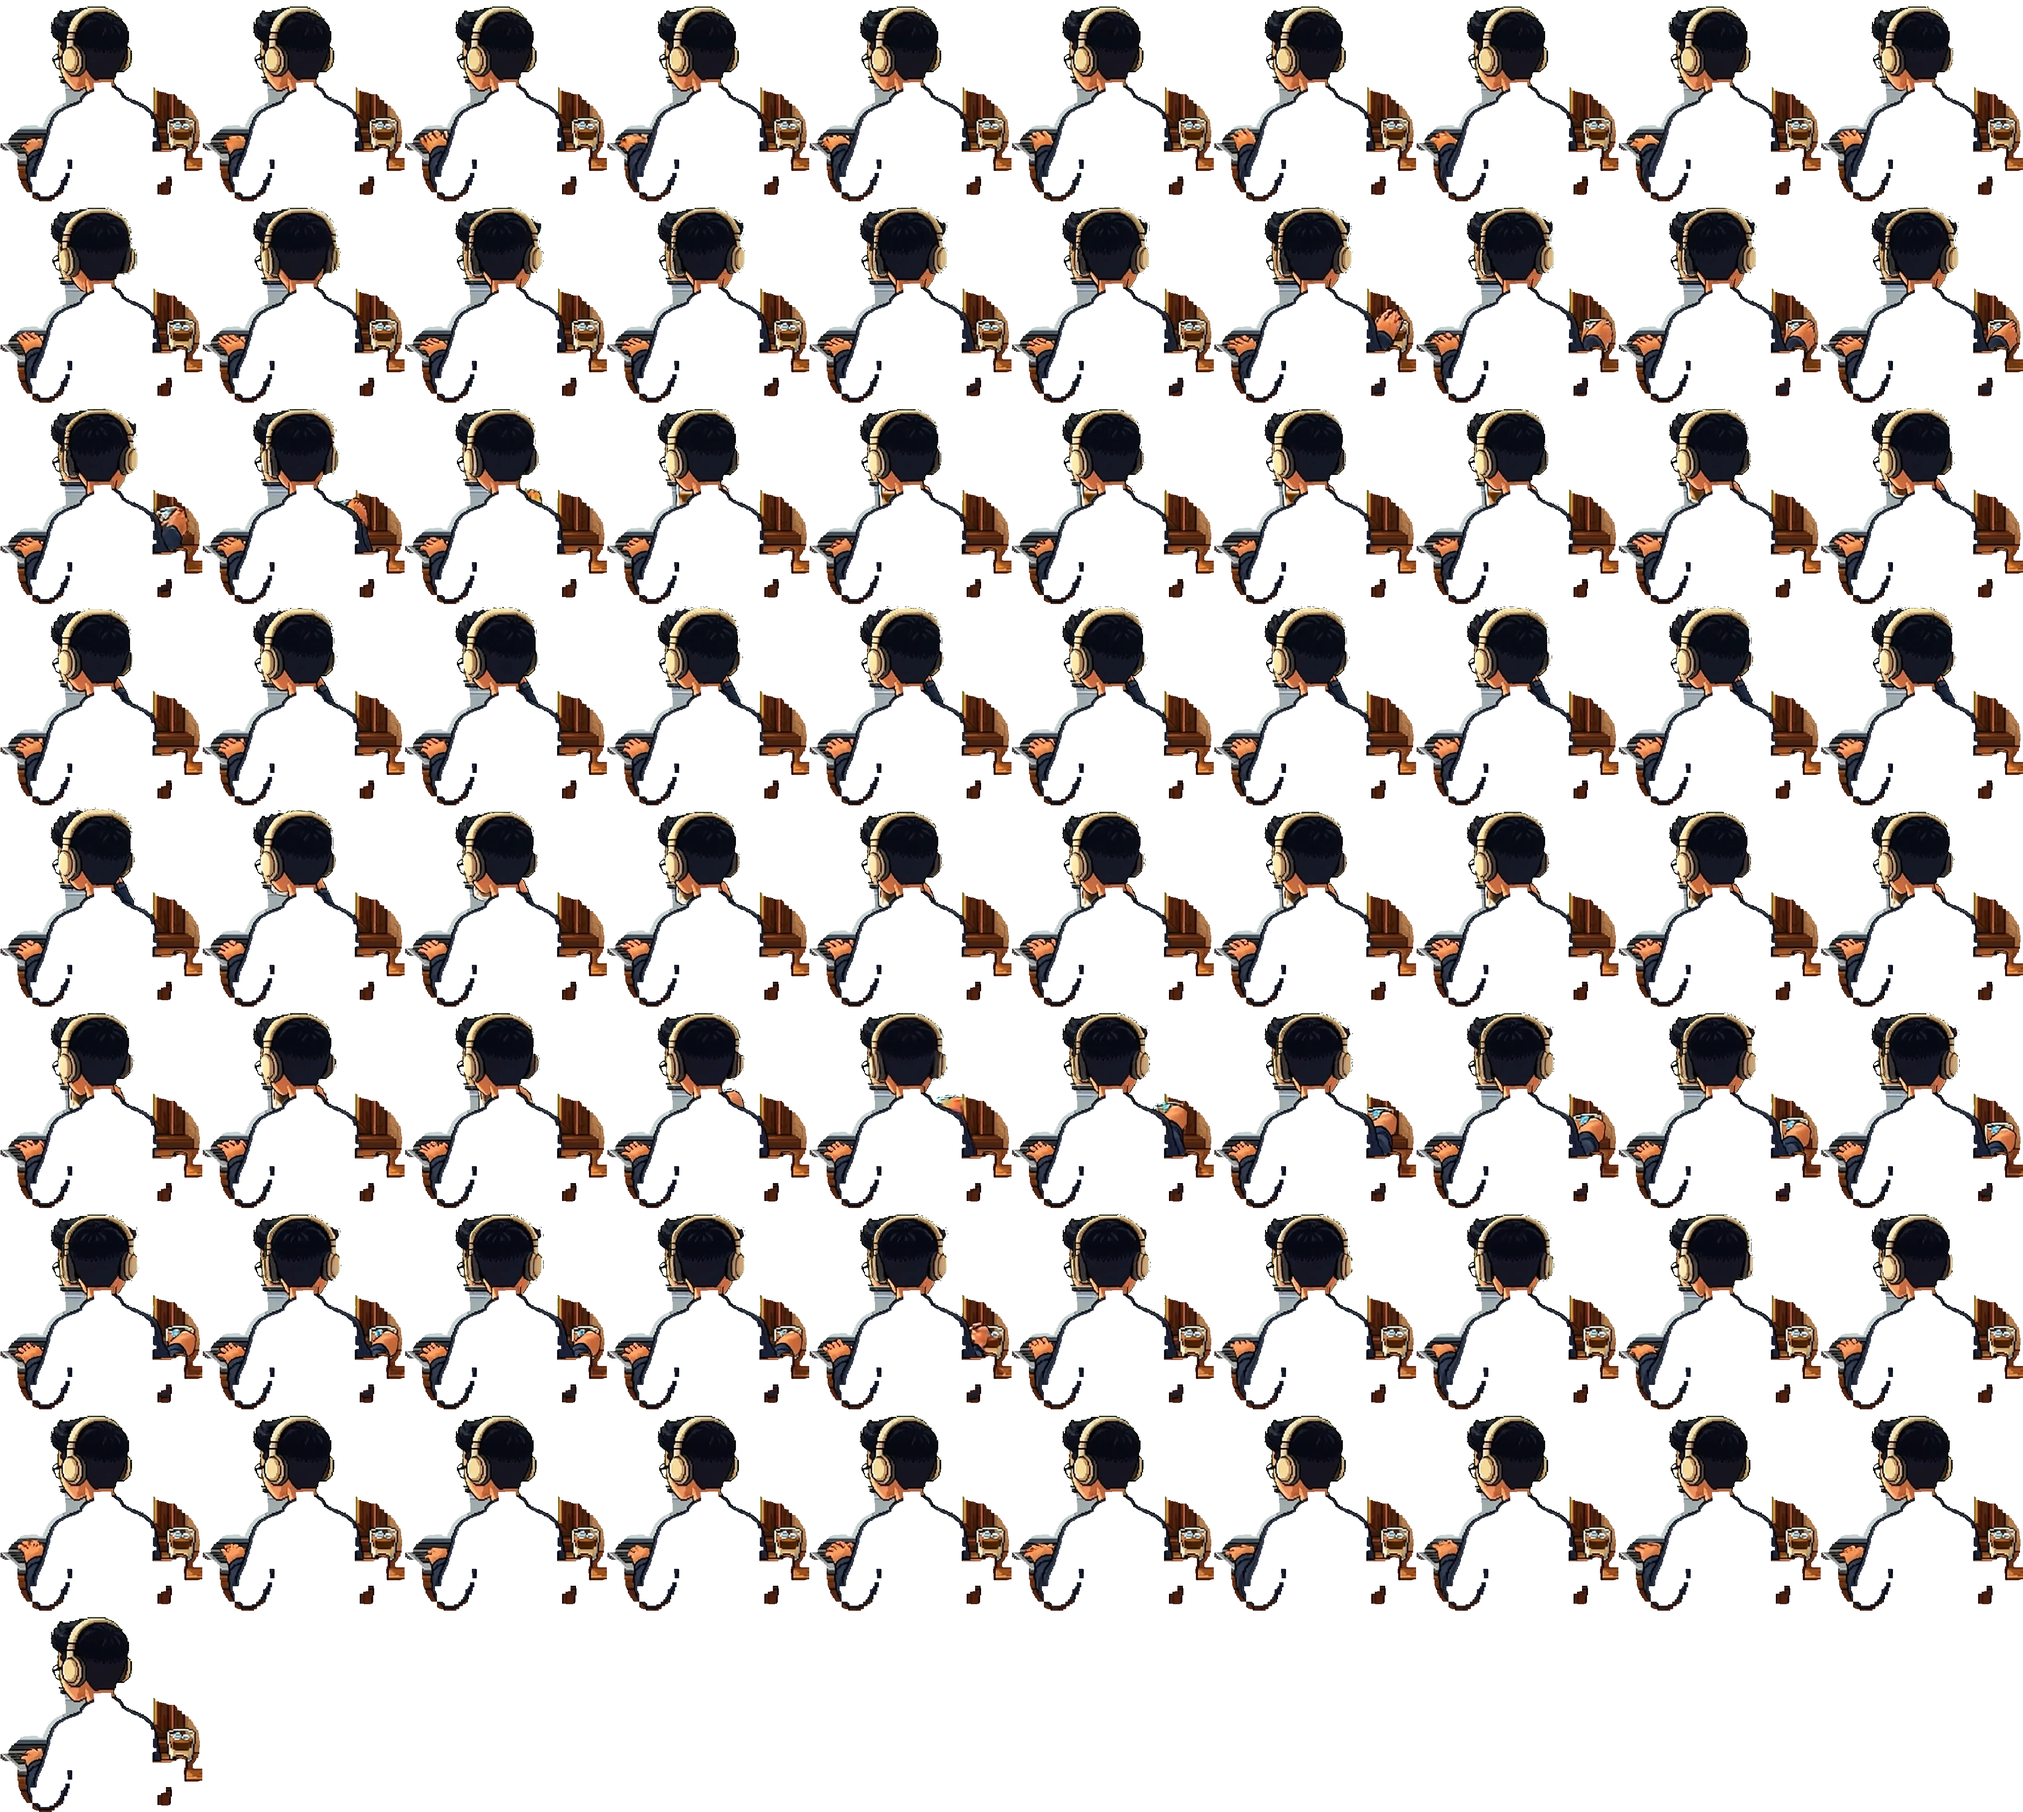
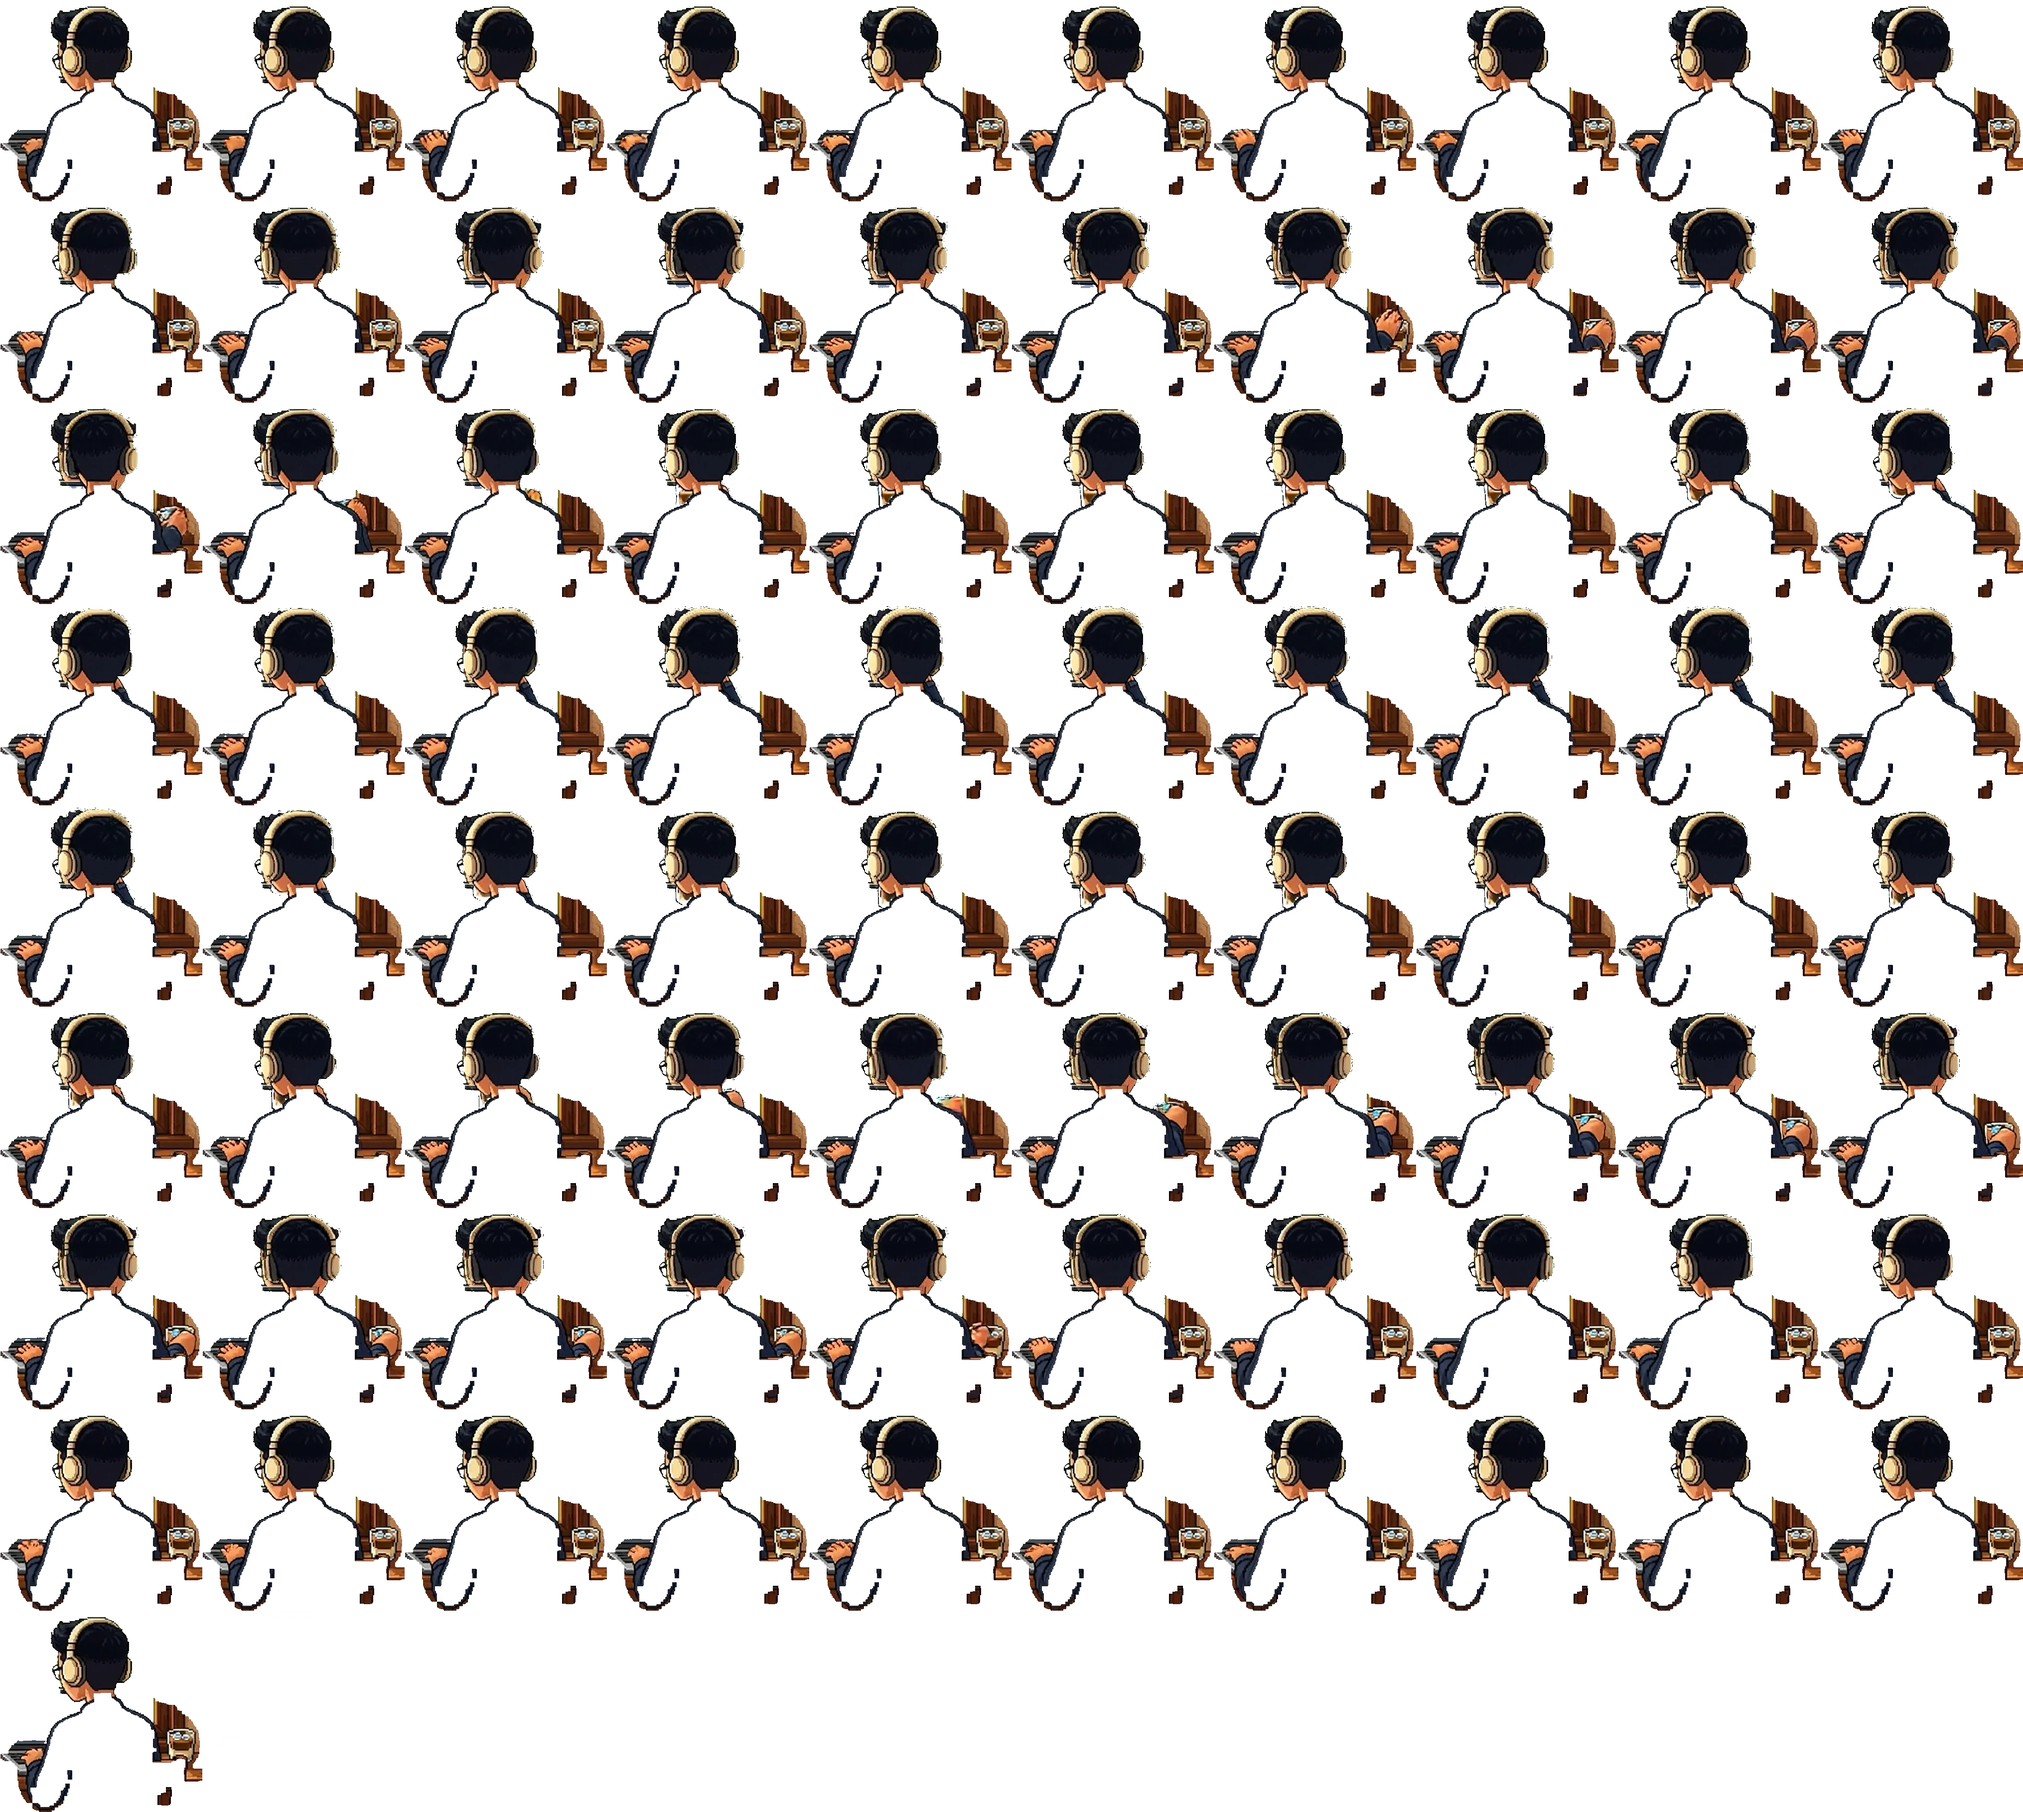
fixed: /chill laptops — café window bezel no longer breaks into steps, night desk screen is sharp and lines up
Café: the left bezel in the sitting video was cut into three steps; straightened in every
frame of both sheets and stray specks cleared from the screen hole. The design app on the
screen now draws on the 2× grid like the art around it.

Night desk: the laptop was stitched from the still and the video, so a grey strip and a
doubled shoulder line showed through. Its screen is now the same live design app as the
café, drawn under the still so the painted shoulder covers it.

diff --git a/src/components/chill/screen.ts b/src/components/chill/screen.ts
@@ -2,11 +2,10 @@
 // con trỏ kéo khung, gõ chữ, đổi màu nút, kéo nút sang chỗ khác… xong 1 màn
 // thì "xuất" rồi bắt đầu màn mới.
 //
-// Vẽ theo px thật trên canvas đệm 640×360 (ctx không scale), nằm dưới lớp người
-// ngồi — vùng màn hình trong sheet đã khoét trong suốt, đầu/vai vẫn che phía trước.
-// Phần bên phải bị đầu che nên bố cục dồn sang trái.
-
-export const SCREEN = {x: 436, y: 219, w: 88, h: 49}
+// Bố cục theo px gốc 640×360 nhưng nét vẽ theo lưới 0,5px (= 1px canvas đệm 1280×720),
+// cho khớp độ chi tiết ×2 của tranh xung quanh. Nằm dưới lớp người ngồi — vùng màn hình
+// trong sheet đã khoét trong suốt, đầu/vai vẫn che phía trước. Phần bên phải hay bị
+// đầu che nên bố cục dồn sang trái. Khung màn hình theo từng phòng (themes.ts).
 
 type Rect = {x: number; y: number; w: number; h: number}
 type El = Rect & {color: string; kind: 'rect' | 'text' | 'round'}
@@ -65,16 +64,19 @@ const DESIGNS: {board: Rect; steps: Step[]}[] = [
 
 const SWATCHES = ['#5b6cff', '#e0567a', '#ff7a45', '#f2a65a', '#1f9d6b']
 // Khung canvas của app (trong màn hình): chừa panel trái 16px, thanh trên 4px
-const CANVAS = {x: 16, y: 4, w: 56, h: 45}
+const PANEL = 16
+const BAR = 4
 const STEP_TIME = 2.2
 const HOLD = 2.5
 
 const ease = (k: number) => (k < 0.5 ? 2 * k * k : 1 - (-2 * k + 2) ** 2 / 2)
 const clamp01 = (k: number) => Math.max(0, Math.min(1, k))
 const lerp = (a: number, b: number, k: number) => a + (b - a) * k
+// Bám lưới 0,5px gốc (1px canvas đệm)
+const snap = (v: number) => Math.round(v * 2) / 2
 
-export function drawScreen(ctx: CanvasRenderingContext2D, t: number, night: boolean) {
-  const S = SCREEN
+export function drawScreen(ctx: CanvasRenderingContext2D, S: Rect, t: number, night: boolean) {
+  const CANVAS = {x: PANEL, y: BAR, w: Math.min(56, S.w - PANEL), h: S.h - BAR}
   const cycle = DESIGNS.map((d) => d.steps.length * STEP_TIME + HOLD)
   const total = cycle.reduce((a, b) => a + b, 0)
   let local = t % total
@@ -101,7 +103,7 @@ export function drawScreen(ctx: CanvasRenderingContext2D, t: number, night: bool
       const p = abs(el)
       if (act > 0) {
         const grow = ease(act)
-        els.push({...el, w: Math.max(1, Math.round(el.w * grow)), h: step.op === 'draw' ? Math.max(1, Math.round(el.h * grow)) : el.h})
+        els.push({...el, w: Math.max(0.5, snap(el.w * grow)), h: step.op === 'draw' ? Math.max(0.5, snap(el.h * grow)) : el.h})
         active = els.length - 1
         if (step.op === 'type' && act < 1) typing = els[active]
       }
@@ -148,69 +150,74 @@ export function drawScreen(ctx: CanvasRenderingContext2D, t: number, night: bool
   ctx.fillStyle = '#3a3a42'
   ctx.fillRect(S.x + CANVAS.x, S.y + CANVAS.y, CANVAS.w, CANVAS.h)
   ctx.fillStyle = '#2a2a30'
-  ctx.fillRect(S.x, S.y, S.w, 4)
+  ctx.fillRect(S.x, S.y, S.w, BAR)
   for (const [i, c] of ['#ff5f57', '#febc2e', '#28c840'].entries()) {
     ctx.fillStyle = c
-    ctx.fillRect(S.x + 2 + i * 3, S.y + 1, 2, 2)
+    ctx.fillRect(S.x + 2 + i * 2.5, S.y + 1.5, 1.5, 1.5)
   }
   ctx.fillStyle = '#5a5a66'
-  ctx.fillRect(S.x + 30, S.y + 1, 22, 2)
+  ctx.fillRect(S.x + 30, S.y + 1.5, 22, 1)
 
   // Panel layers: mỗi phần tử 1 dòng, dòng đang chọn tô xanh
   ctx.fillStyle = '#6d6d78'
-  ctx.fillRect(S.x + 2, S.y + 6, 9, 1)
+  ctx.fillRect(S.x + 2, S.y + 6, 9, 0.5)
   els.forEach((el, i) => {
     const y = S.y + 9 + i * 4
     if (i === active) {
       ctx.fillStyle = '#2f4c8a'
-      ctx.fillRect(S.x, y - 1, CANVAS.x, 3)
+      ctx.fillRect(S.x, y - 1, CANVAS.x, 2.5)
     }
     ctx.fillStyle = el.color
-    ctx.fillRect(S.x + 2, y, 2, 1)
+    ctx.fillRect(S.x + 2, y, 1.5, 1)
     ctx.fillStyle = i === active ? '#dfe6ff' : '#8a8a96'
-    ctx.fillRect(S.x + 5, y, el.kind === 'text' ? 8 : 6, 1)
+    ctx.fillRect(S.x + 4.5, y + 0.25, el.kind === 'text' ? 8 : 6, 0.5)
   })
   // Ô màu dưới panel
   SWATCHES.forEach((c, i) => {
     ctx.fillStyle = c
-    ctx.fillRect(S.x + 2 + i * 2.5, S.y + S.h - 6, 2, 2)
+    ctx.fillRect(S.x + 2 + i * 2.5, S.y + S.h - 6, 1.5, 1.5)
   })
 
   // Artboard + phần tử
   ctx.fillStyle = '#fbfaf7'
   ctx.fillRect(board.x, board.y, board.w, board.h)
+  // Dòng chữ vẽ mảnh bằng nửa chiều cao khai báo (nét 0,5px như chữ thật trên màn)
+  const tall = (el: El) => (el.kind === 'text' ? Math.max(0.5, el.h / 2) : el.h)
   for (const el of els) {
-    const x = Math.round(board.x + el.x)
-    const y = Math.round(board.y + el.y)
+    const x = snap(board.x + el.x)
+    const y = snap(board.y + el.y)
+    const h = tall(el)
     ctx.fillStyle = el.color
-    if (el.kind === 'round' && el.w > 2 && el.h > 2) {
-      ctx.fillRect(x + 1, y, el.w - 2, el.h)
-      ctx.fillRect(x, y + 1, el.w, el.h - 2)
-    } else ctx.fillRect(x, y, el.w, el.h)
+    if (el.kind === 'round' && el.w > 2 && h > 2) {
+      ctx.fillRect(x + 0.5, y, el.w - 1, h)
+      ctx.fillRect(x, y + 0.5, el.w, h - 1)
+    } else ctx.fillRect(x, y, el.w, h)
   }
   // Con trỏ nhấp nháy khi đang gõ
   if (typing && Math.floor(t * 3) % 2) {
     ctx.fillStyle = '#3d6df2'
-    ctx.fillRect(Math.round(board.x + typing.x + typing.w + 1), Math.round(board.y + typing.y - 1), 1, typing.h + 2)
+    ctx.fillRect(snap(board.x + typing.x + typing.w + 0.5), snap(board.y + typing.y - 0.5), 0.5, tall(typing) + 1)
   }
-  // Khung chọn + 4 tay nắm
+  // Khung chọn nét 0,5px + 4 tay nắm
   const sel = els[active]
   if (sel) {
-    const x = Math.round(board.x + sel.x) - 1
-    const y = Math.round(board.y + sel.y) - 1
-    const w = sel.w + 2
-    const h = sel.h + 2
-    ctx.strokeStyle = '#4f8cff'
-    ctx.lineWidth = 1
-    ctx.strokeRect(x + 0.5, y + 0.5, w - 1, h - 1)
+    const x = snap(board.x + sel.x) - 0.5
+    const y = snap(board.y + sel.y) - 0.5
+    const w = sel.w + 1
+    const h = tall(sel) + 1
+    ctx.fillStyle = '#4f8cff'
+    ctx.fillRect(x, y, w, 0.5)
+    ctx.fillRect(x, y + h - 0.5, w, 0.5)
+    ctx.fillRect(x, y, 0.5, h)
+    ctx.fillRect(x + w - 0.5, y, 0.5, h)
     ctx.fillStyle = '#ffffff'
     for (const [hx, hy] of [
-      [x, y],
-      [x + w - 1, y],
-      [x, y + h - 1],
-      [x + w - 1, y + h - 1],
+      [x - 0.25, y - 0.25],
+      [x + w - 0.75, y - 0.25],
+      [x - 0.25, y + h - 0.75],
+      [x + w - 0.75, y + h - 0.75],
     ])
-      ctx.fillRect(hx, hy, 1, 1)
+      ctx.fillRect(snap(hx), snap(hy), 1, 1)
   }
   // Chớp trắng lúc "xuất" màn xong
   if (holding) {
@@ -220,7 +227,7 @@ export function drawScreen(ctx: CanvasRenderingContext2D, t: number, night: bool
       ctx.fillRect(board.x, board.y, board.w, board.h)
     }
   }
-  drawPointer(ctx, Math.round(cursor.x), Math.round(cursor.y), press)
+  drawPointer(ctx, snap(cursor.x), snap(cursor.y), press)
   // Ban ngày màn hình bị nắng làm bạc đi một chút
   if (!night) {
     ctx.fillStyle = 'rgba(210,220,235,0.1)'
@@ -229,15 +236,15 @@ export function drawScreen(ctx: CanvasRenderingContext2D, t: number, night: bool
   ctx.restore()
 }
 
-// Mũi tên chuột 4×6, viền tối; đang nhấn thì co lại 1px
+// Mũi tên chuột ô 0,5px (cao 5px gốc), viền tối; đang nhấn thì co đuôi lại
+const POINTER = ['1', '11', '121', '1221', '12221', '122221', '1222221', '1221111', '1211', '11 21', '1  21', '    11']
 function drawPointer(ctx: CanvasRenderingContext2D, x: number, y: number, press: boolean) {
-  const shape = ['1', '11', '121', '1221', '1222', '11', '01']
-  shape.forEach((row, j) => {
-    if (press && j === shape.length - 1) return
+  POINTER.forEach((row, j) => {
+    if (press && j >= POINTER.length - 2) return
     for (let i = 0; i < row.length; i++) {
-      if (row[i] === '0') continue
+      if (row[i] !== '1' && row[i] !== '2') continue
       ctx.fillStyle = row[i] === '1' ? '#101014' : '#ffffff'
-      ctx.fillRect(x + i, y + j, 1, 1)
+      ctx.fillRect(x + i * 0.5, y + j * 0.5, 0.5, 0.5)
     }
   })
 }

diff --git a/src/components/chill/themes.ts b/src/components/chill/themes.ts
@@ -63,7 +63,11 @@ export type Theme = {
   streetDy: number
   // Café: người ngồi là sprite sheet từ video + màn hình laptop vẽ bằng code
   character: CharacterVideo | CharacterFrames
-  screen: boolean
+  // Màn laptop vẽ app thiết kế bằng code (screen.ts), px gốc — nằm dưới lớp người ngồi,
+  // đầu / vai che phía trước. null = không có màn hình
+  screen: Rect | null
+  // Vẽ màn dưới ảnh nội thất (ảnh tĩnh đã khoét lòng màn): người vẽ sẵn trong ảnh che lên
+  screenBehind: boolean
   cat: Pt
   // Khoảng bậu mèo được đi lại khi chơi cần câu (mép trái → mép phải thân, px gốc)
   catRoom: [number, number]
@@ -111,7 +115,8 @@ export const THEMES: Theme[] = [
       duration: 121 / 12,
       sip: [0.75, 6.8],
     },
-    screen: true,
+    screen: {x: 436, y: 219, w: 88, h: 49},
+    screenBehind: false,
     cat: {x: 112, y: 296},
     // Giữa chậu cây và phin
     catRoom: [66, 228],
@@ -147,7 +152,8 @@ export const THEMES: Theme[] = [
       duration: 121 / 12,
       sip: [1.1, 9.1],
     },
-    screen: false,
+    screen: null,
+    screenBehind: false,
     cat: {x: 60, y: 197},
     // Đầu lan can, tới trước bụi hoa giấy
     catRoom: [44, 186],
@@ -186,7 +192,10 @@ export const THEMES: Theme[] = [
       duration: 121 / 12,
       sip: [1.62, 8.3],
     },
-    screen: false,
+    // Lòng màn hình (đã khoét khỏi ảnh tĩnh, dải màn xám cũ trong video đã xoá). Vai người
+    // vẽ sẵn trong ảnh tĩnh nên màn vẽ dưới ảnh, viền laptop che phần thừa
+    screen: {x: 436, y: 219, w: 99, h: 51},
+    screenBehind: true,
     cat: {x: 270, y: 283},
     // Giữa cốc cà phê và ô kệ đầu tiên
     catRoom: [268, 364],

diff --git a/src/components/chill/scene.ts b/src/components/chill/scene.ts
@@ -2447,6 +2447,13 @@ export class ChillScene {
     }
     ctx.restore()
 
+    const {screen, screenBehind} = this.theme
+    if (screen && screenBehind && ready(this.interior)) {
+      ctx.save()
+      ctx.setTransform(RES, 0, 0, RES, 0, 0)
+      drawScreen(ctx, screen, t, this.time === 'night')
+      ctx.restore()
+    }
     ctx.drawImage(this.interiorLayer, 0, 0, SCENE_W, SCENE_H)
     ctx.save()
     // Lớp vẽ theo px gốc 640×360
@@ -2455,7 +2462,7 @@ export class ChillScene {
     if (character.kind === 'video') {
       // Màn hình laptop chỉ hiện khi nội thất đã tải và đã khoét vùng người ngồi
       if (ready(this.charSheet) && ready(this.interior)) {
-        if (this.theme.screen) drawScreen(ctx, t, this.time === 'night')
+        if (screen && !screenBehind) drawScreen(ctx, screen, t, this.time === 'night')
         const {at} = character
         ctx.drawImage(this.charFrameCanvas(), at.x, at.y, at.w, at.h)
       }
